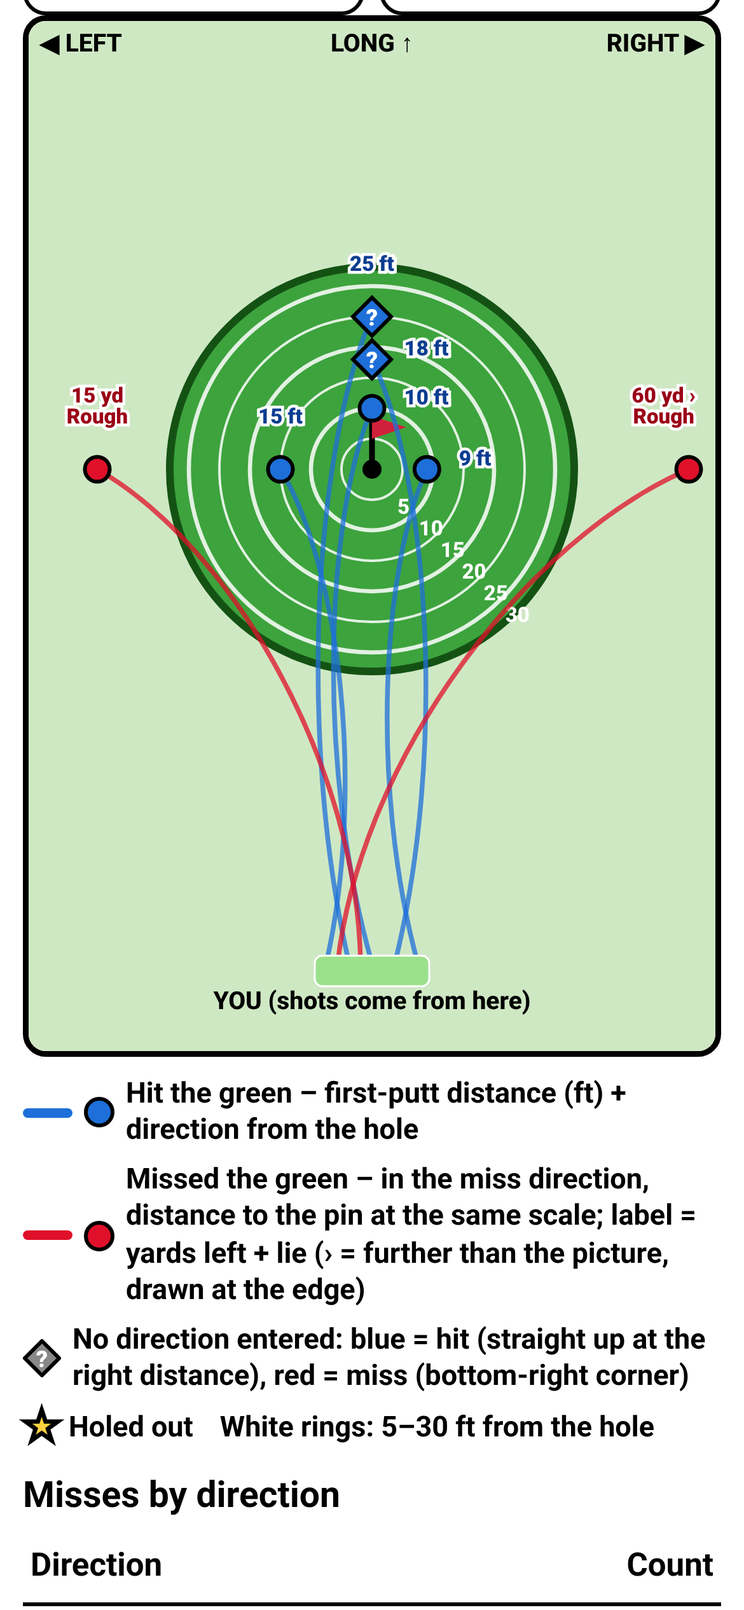
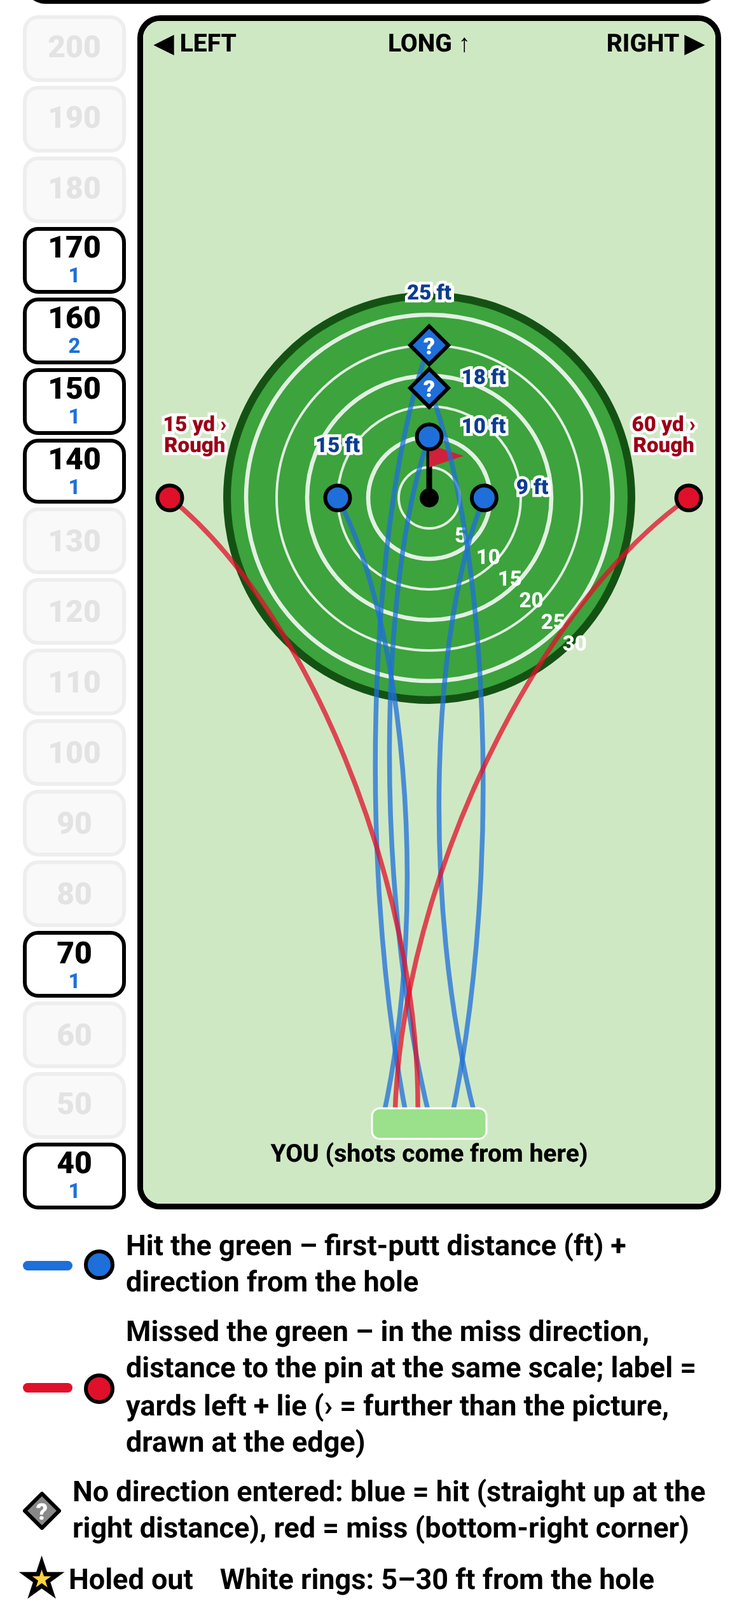
v13: Proximity yardage rail (40-200 buttons, nearest 10 yd, halves up), All button, disabled empty yardages, counts; tests; SW v13

diff --git a/tests/e2e.js b/tests/e2e.js
@@ -368,11 +368,19 @@ let passed = 0; const ok = (m) => { passed++; console.log('  ✓', m); };
   assert.match(await page.textContent('[data-act="map"][data-v="prox"]'), new RegExp('^' + Math.round(tileExp.avgAllFt) + ' ft\\s*Proximity by distance.*avg 40–200 yd · ' + tileExp.n + ' approaches · greens hit ' + tileExp.hits + '/' + tileExp.n));
   ok(`Proximity tile: ${Math.round(tileExp.avgAllFt)} ft avg, ${tileExp.n} approaches, greens hit ${tileExp.hits}/${tileExp.n}`);
   await page.locator('[data-act="map"][data-v="prox"]').click(); await page.waitForSelector('#proxmap');
-  const popts = await page.$$eval('#proxsel option', os => os.map(o => o.value));
-  assert.strictEqual(popts.length, 17); assert.strictEqual(popts[0], 'all'); assert.strictEqual(popts[1], '40-50'); assert.strictEqual(popts[16], '190-200');
-  assert.strictEqual(await page.$eval('#proxsel', e => e.value), 'all'); ok('range dropdown: All 40–200 + 16 ten-yard buckets 40–50 … 190–200');
+  const railIds = await page.$$eval('#proxrail .ybtn', bs => bs.map(b => b.getAttribute('data-v')));
+  assert.deepStrictEqual(railIds, Array.from({ length: 17 }, (_, i) => String(200 - i * 10)), '17 buttons, 200 at the top, 40 at the bottom');
+  assert.match(await page.getAttribute('[data-act="proxb"][data-v="all"]', 'class'), /sel/); assert.match(await page.textContent('#proxsel'), /All 40–200 yd/);
+  ok('yardage rail: 17 buttons 200 (top) … 40 (bottom) + All button above the map, All selected');
+  // layout at 390 wide: rail on the left, map shifted right, buttons fit the map height
+  const geo = await page.evaluate(() => { const r = document.getElementById('proxrail').getBoundingClientRect(), m = document.getElementById('proxmap').getBoundingClientRect();
+    const bs = [...document.querySelectorAll('#proxrail .ybtn')].map(b => b.getBoundingClientRect()); return { r: [r.left, r.right, r.top, r.bottom], m: [m.left, m.right, m.top, m.bottom], minH: Math.min(...bs.map(b => b.height)), minW: Math.min(...bs.map(b => b.width)), docW: document.documentElement.scrollWidth }; });
+  assert.ok(geo.r[1] <= geo.m[0], 'rail left of the map'); assert.ok(geo.m[1] <= 390 && geo.docW <= 390, 'fits 390 wide');
+  assert.ok(geo.minH >= 34, 'buttons at least 34 px tall: ' + geo.minH); assert.ok(Math.abs((geo.r[3] - geo.r[2]) - (geo.m[3] - geo.m[2])) < 2, 'rail = map height');
+  ok(`rail ${Math.round(geo.r[1] - geo.r[0])} px wide left of a ${Math.round(geo.m[1] - geo.m[0])}×${Math.round(geo.m[3] - geo.m[2])} map; buttons ${geo.minW.toFixed(0)}×${geo.minH.toFixed(1)} px; no horizontal scroll`);
   await act('mapscope', 'all');
-  const expAll = await page.evaluate(() => { const L = []; window.__golf.rounds().forEach(r => SG.summarize(r).proxList.forEach(m => { if (SG.inBucket('all', m.from)) L.push(m); })); return { P: SG.proxStats(L), byB: SG.PROX_BUCKETS.slice(1).map(b => [b.id, L.filter(m => SG.inBucket(b.id, m.from)).length]) }; });
+  const expAll = await page.evaluate(() => { const L = []; window.__golf.rounds().forEach(r => SG.summarize(r).proxList.forEach(m => L.push(m)));
+    const inA = L.filter(m => SG.inBucket('all', m.from)); return { P: SG.proxStats(inA), outside: L.length - inA.length, byB: SG.PROX_BUCKETS.slice(1).map(b => [b.id, L.filter(m => SG.inBucket(b.id, m.from)).length]) }; });
   const checkView = async (P, label) => {
     assert.match(await page.textContent('#mapsum'), new RegExp('^' + P.n + ' approach'));
     const kinds = await page.$$eval('#proxmap .xdot', ds => ds.map(d => d.getAttribute('data-kind')));
@@ -382,30 +390,47 @@ let passed = 0; const ok = (m) => { passed++; console.log('  ✓', m); };
     const st = await page.textContent('#proxstats');
     assert.ok(P.n ? st.includes(P.hits + ' / ' + P.n + ' (' + Math.round(P.hitPct) + '%)') : st.includes('–'), st);
     if (P.avgHitFt != null) assert.ok(st.includes(Math.round(P.avgHitFt) + ' ft'), st);
+    if (P.avgAllFt != null) assert.ok(st.includes(Math.round(P.avgAllFt) + ' ft'), st);
     const dsum = await page.$$eval('#dirtab tr[data-dir] td.num', ts => ts.reduce((a, t) => a + +t.textContent, 0)); assert.strictEqual(dsum, P.misses, label + ': misses by direction add up');
   };
   await checkView(expAll.P, 'all');
-  assert.strictEqual(expAll.byB.reduce((a, b) => a + b[1], 0), expAll.P.n, 'bucket counts add up to All');
-  ok(`All 40–200 (all rounds): ${expAll.P.n} approaches, ${expAll.P.hits} hit (blue) + ${expAll.P.misses} missed (red), avg ${Math.round(expAll.P.avgHitFt)} ft on greens / ${Math.round(expAll.P.avgAllFt)} ft overall; bucket counts sum to All`);
-  await page.screenshot({ path: `${SHOTS}/24-proximity-all.png` });
-  await page.locator("#proxmap").scrollIntoViewIfNeeded(); await page.locator("#mapview").evaluate(e => { const m = document.getElementById("proxmap"); e.scrollTop += m.getBoundingClientRect().top - 8; }); await page.screenshot({ path: `${SHOTS}/24b-proximity-all-map.png` }); await page.locator("#mapview").evaluate(e => e.scrollTo(0, 0));
-  await page.selectOption('#proxsel', '150-160'); await page.waitForSelector('#proxmap');
-  const exp150 = await page.evaluate(() => { const L = []; window.__golf.rounds().forEach(r => SG.summarize(r).proxList.forEach(m => { if (SG.inBucket('150-160', m.from)) L.push(m); })); return SG.proxStats(L); });
-  assert.strictEqual(exp150.n, 3); await checkView(exp150, '150-160');
+  // button counts / disabled states match the data and add up to All
+  const rbtn = await page.$$eval('#proxrail .ybtn', bs => bs.map(b => [b.getAttribute('data-v'), +b.getAttribute('data-n'), b.disabled, (b.querySelector('small') || {}).textContent || '']));
+  const byB = Object.fromEntries(expAll.byB);
+  rbtn.forEach(([id, n, dis, small]) => { assert.strictEqual(n, byB[id], id); assert.strictEqual(dis, n === 0, id + ' disabled iff empty'); assert.strictEqual(small, n ? String(n) : ''); });
+  assert.strictEqual(rbtn.reduce((a, b) => a + b[1], 0), expAll.P.n, 'button counts add up to All');
+  assert.match(await page.textContent('[data-act="proxb"][data-v="all"]'), new RegExp('All 40–200 yd · ' + expAll.P.n + ' shots'));
+  if (expAll.outside) assert.match(await page.textContent('#proxout'), new RegExp('^' + expAll.outside + ' regulation shot'));
+  ok(`All (all rounds): ${expAll.P.n} approaches = sum of button counts; ${rbtn.filter(b => b[2]).length} empty buttons greyed out + disabled; ${expAll.outside} outside 40–200 noted; ${expAll.P.hits} blue + ${expAll.P.misses} red, avg ${Math.round(expAll.P.avgHitFt)} ft on greens / ${Math.round(expAll.P.avgAllFt)} ft overall`);
+  await page.screenshot({ path: `${SHOTS}/29-proximity-rail-all.png` });
+  await page.locator('#mapview').evaluate(e => { const m = document.getElementById('proxmap'); e.scrollTop += m.getBoundingClientRect().top - 8; }); await page.screenshot({ path: `${SHOTS}/29b-proximity-rail-all-map.png` });
+  // tap 150: only shots hit from 145-154 yd; stats follow
+  const pickB = rbtn.filter(b => b[1] > 0).sort((a, b) => b[1] - a[1])[0][0];
+  const tgt = rbtn.find(b => b[0] === '150' && b[1] > 0) ? '150' : pickB;
+  await page.click(`#proxrail [data-v="${tgt}"]`); await page.waitForSelector('#proxmap');
+  assert.match(await page.getAttribute(`#proxrail [data-v="${tgt}"]`, 'class'), /sel/); assert.doesNotMatch(await page.getAttribute('[data-act="proxb"][data-v="all"]', 'class'), /sel/);
+  assert.strictEqual(await page.locator('#proxrail .ybtn.sel').count(), 1);
+  const expB = await page.evaluate(id => { const L = []; window.__golf.rounds().forEach(r => SG.summarize(r).proxList.forEach(m => { if (SG.inBucket(id, m.from)) L.push(m); })); return SG.proxStats(L); }, tgt);
+  await checkView(expB, tgt);
   const froms = await page.$$eval('#proxmap .xdot', ds => ds.map(d => +d.getAttribute('data-from')));
-  assert.ok(froms.every(f => f >= 150 && f < 160), 'only shots from 150–159 yd: ' + froms);
+  assert.ok(froms.every(f => f >= +tgt - 5 && f < +tgt + 5), 'only shots that round to ' + tgt + ': ' + froms);
+  assert.match(await page.textContent('#proxsel'), new RegExp(tgt + ' yd \\(' + (tgt - 5) + '–' + (+tgt + 4) + '\\)'));
   const ptr = await page.$$eval('#proxmap path.tracer', ps => ps.map(p => p.getAttribute('stroke')));
-  assert.strictEqual(ptr.length, 3); assert.strictEqual(ptr.filter(c => c === '#1e6fd9').length, 2); assert.strictEqual(ptr.filter(c => c === '#e0102a').length, 1);
-  const lbls = await page.$$eval('#proxmap text.xlbl', ts => ts.map(t => t.textContent));
-  assert.ok(lbls.includes('12 ft') && lbls.includes('15 ft') && lbls.some(l => l.startsWith('25 yd') && l.endsWith('Rough')), lbls.join('|'));
-  const red = await page.$eval('#proxmap .xdot[data-kind="miss"]', c => [+c.getAttribute('cx'), +c.getAttribute('cy'), c.getAttribute('data-clamped')]);
-  assert.ok(red[0] > 180 + 106, 'missed right → right of the green'); 
-  ok('150–160 yd: 3 approaches (2 blue tracers to 12 ft / 15 ft, 1 red to the right "25 yd Rough"), only shots from 150–159 yd');
-  await page.screenshot({ path: `${SHOTS}/25-proximity-150-160.png` });
-  await page.locator('#mapview').evaluate(e => e.scrollTo(0, e.scrollHeight)); await page.screenshot({ path: `${SHOTS}/25b-proximity-150-160-counts.png` });
-  await page.selectOption('#proxsel', '40-50');
-  await checkView(await page.evaluate(() => { const L = []; window.__golf.rounds().forEach(r => SG.summarize(r).proxList.forEach(m => { if (SG.inBucket('40-50', m.from)) L.push(m); })); return SG.proxStats(L); }), '40-50');
-  await page.selectOption('#proxsel', 'all'); ok('empty / other ranges render with matching counts');
+  assert.strictEqual(ptr.filter(c => c === '#1e6fd9').length, expB.hits, 'blue tracers = greens hit'); assert.strictEqual(ptr.filter(c => c === '#e0102a').length, expB.misses - (await page.locator('#proxmap .xdot[data-kind="missnodir"]').count()), 'red tracers = misses with a direction');
+  ok(`tap ${tgt}: ${expB.n} shots from ${tgt - 5}–${+tgt + 4} yd only (from ${froms.join(', ')}), button highlighted, stats ${expB.hits}/${expB.n} greens, avg ${expB.avgAllFt == null ? '–' : Math.round(expB.avgAllFt) + ' ft'}`);
+  await page.locator("#mapview").evaluate(e => e.scrollTo(0, 0)); await page.screenshot({ path: `${SHOTS}/30-proximity-rail-${tgt}.png` });
+  await page.locator('#mapview').evaluate(e => { const m = document.getElementById('proxmap'); e.scrollTop += m.getBoundingClientRect().top - 8; }); await page.screenshot({ path: `${SHOTS}/30b-proximity-rail-${tgt}-map.png` });
+  // a disabled button can't be selected
+  const dis = rbtn.find(b => b[2]);
+  if (dis) { assert.ok(await page.locator(`#proxrail [data-v="${dis[0]}"]`).isDisabled()); await page.locator(`#proxrail [data-v="${dis[0]}"]`).click({ force: true }); assert.match(await page.getAttribute(`#proxrail [data-v="${tgt}"]`, 'class'), /sel/); ok(`empty ${dis[0]} button is disabled (tap does nothing)`); }
+  // scope switch: this round has fewer yardages; a selection that becomes empty falls back to All
+  await act('mapscope', 'round');
+  const rnd = await page.$$eval('#proxrail .ybtn', bs => bs.map(b => [b.getAttribute('data-v'), +b.getAttribute('data-n'), b.disabled]));
+  const expR = await page.evaluate(() => { const S = SG.summarize(window.__golf.rounds()[0]); return SG.PROX_BUCKETS.slice(1).map(b => [b.id, S.proxList.filter(m => SG.inBucket(b.id, m.from)).length]); });
+  assert.deepStrictEqual(rnd.map(b => [b[0], b[1]]), expR.slice().reverse()); rnd.forEach(b => assert.strictEqual(b[2], b[1] === 0));
+  if (!Object.fromEntries(expR)[tgt]) assert.match(await page.getAttribute('[data-act="proxb"][data-v="all"]', 'class'), /sel/);
+  ok('This round: button counts/disabled states follow the scope; an empty selection falls back to All');
+  await act('proxb', 'all'); await act('mapscope', 'all');
   await act('mapclose');
   await noOverflow('summary with tiles');
   // About the numbers
@@ -542,7 +567,7 @@ let passed = 0; const ok = (m) => { passed++; console.log('  ✓', m); };
     await act('pinseg', '');
   }
   assert.strictEqual(ph, 5); assert.strictEqual(pm, 2); await act('mapclose');
-  await page.locator('[data-act="map"][data-v="prox"]').click(); await page.waitForSelector('#proxmap'); await act('mapscope', 'round'); await page.selectOption('#proxsel', 'all');
+  await page.locator('[data-act="map"][data-v="prox"]').click(); await page.waitForSelector('#proxmap'); await act('mapscope', 'round'); await act('proxb', 'all');
   const pk7 = await page.$$eval('#proxmap .xdot', ds => ds.map(d => d.getAttribute('data-kind')));
   assert.strictEqual(pk7.filter(k => k.startsWith('miss')).length, 2); assert.strictEqual(pk7.length - 2, 5);
   const curved = await page.$$eval('#proxmap path.tracer', ps => ps.every(p => / C/.test(p.getAttribute('d'))));

diff --git a/app.js b/app.js
@@ -532,17 +532,19 @@
     return tile('prox', 'Proximity by distance – tap for map', P.n ? fmtFt(P.avgAllFt) : '–',
       '<small class="mini">avg 40–200 yd · ' + P.n + ' approach' + (P.n === 1 ? '' : 'es') + (P.n ? ' · greens hit ' + P.hits + '/' + P.n : '') + '</small>');
   }
+  // Proximity data for the selected yardage. Counts per yardage button (current scope) decide which
+  // buttons are enabled; a selection with no shots in this scope falls back to All.
   function proxData() {
-    var b = view.proxB || 'all', list = [], n = 0;
-    (view.mapScope === 'all' ? rounds : [round()]).forEach(function (r) {
-      n++; SG.summarize(r, 'pga').proxList.forEach(function (m) { if (SG.inBucket(b, m.from)) list.push(m); });
-    });
-    return { list: list, rounds: n, bucket: b };
+    var all = [], n = 0;
+    (view.mapScope === 'all' ? rounds : [round()]).forEach(function (r) { n++; SG.summarize(r, 'pga').proxList.forEach(function (m) { all.push(m); }); });
+    var counts = {}; SG.PROX_BUCKETS.forEach(function (b) { counts[b.id] = all.filter(function (m) { return SG.inBucket(b.id, m.from); }).length; });
+    var b = view.proxB || 'all'; if (!counts[b]) b = 'all';
+    return { list: all.filter(function (m) { return SG.inBucket(b, m.from); }), rounds: n, bucket: b, counts: counts, outside: all.length - counts.all };
   }
-  var PX = { cx: 180, cy: 235, K: 3.2, Rg: 106, W: 360, H: 540 };
+  var PX = { cx: 150, cy: 250, K: 3.2, Rg: 106, W: 300, H: 620 };
   function proxSVG(list) {
-    var out = '<svg id="proxmap" viewBox="0 0 360 540" role="img" aria-label="Approach proximity">' +
-      '<rect width="360" height="540" fill="#cfe8c4"/><circle cx="' + PX.cx + '" cy="' + PX.cy + '" r="' + PX.Rg + '" fill="#3da33d" stroke="#145214" stroke-width="4"/>';
+    var out = '<svg id="proxmap" viewBox="0 0 ' + PX.W + ' ' + PX.H + '" role="img" aria-label="Approach proximity">' +
+      '<rect width="' + PX.W + '" height="' + PX.H + '" fill="#cfe8c4"/><circle cx="' + PX.cx + '" cy="' + PX.cy + '" r="' + PX.Rg + '" fill="#3da33d" stroke="#145214" stroke-width="4"/>';
     [30, 25, 20, 15, 10, 5].forEach(function (ft) {
       out += '<circle cx="' + PX.cx + '" cy="' + PX.cy + '" r="' + ft * PX.K + '" fill="none" stroke="#fff" stroke-width="' + (ft % 10 ? 1.3 : 2.2) + '" stroke-opacity=".85"/>' +
         '<text class="ring" x="' + f1(PX.cx + 2 + ft * PX.K * 0.707) + '" y="' + f1(PX.cy + 12 + ft * PX.K * 0.707) + '" font-size="11" font-weight="800" fill="#fff">' + ft + '</text>';
@@ -581,7 +583,7 @@
         var raw = pt(PX.cx, PX.cy, r0, SG.DIR_ANGLE[m.dir] + (jm - 1) * 8); q = clampXY(raw); clamped = q[0] !== raw[0] || q[1] !== raw[1];
         kind = 'miss'; label = m.lie === 'ob' ? 'OB' : Math.round(m.yd) + ' yd' + (clamped ? ' ›' : ''); label2 = m.lie === 'ob' ? '' : (LN[m.lie] || m.lie);
       }
-      var x = f1(q[0]), y = f1(q[1]), ox = 180 + ((i * 29) % 9 - 4) * 6, oy = PX.H - 46;
+      var x = f1(q[0]), y = f1(q[1]), ox = PX.cx + ((i * 29) % 9 - 4) * 6, oy = PX.H - 46;
       if (kind !== 'missnodir') tr += '<path class="tracer" data-ex="' + x + '" data-ey="' + y + '" d="' + flight(ox, oy, q[0], q[1], i) + '" fill="none" stroke="' + col + '" stroke-width="2.5" stroke-opacity=".75"/>';
       var attrs = ' class="xdot" data-kind="' + kind + '" data-hole="' + m.hole + '" data-from="' + m.from + '"' + (clamped ? ' data-clamped="1"' : '');
       if (kind === 'holed') dots += '<path' + attrs + ' d="M' + x + ' ' + (y - 10) + ' l3 6.5 7 .8 -5.3 4.8 1.5 7 -6.2 -3.6 -6.2 3.6 1.5 -7 -5.3 -4.8 7 -.8z" fill="#ffd23f" stroke="#1e6fd9" stroke-width="2"/>';
@@ -591,22 +593,29 @@
       boxes.push([q[0] - 8, q[1] - 10, q[0] + 8, q[1] + 10]);
     });
     pend.forEach(function (p) { labels += lbl(p[0], p[1], p[2], p[3], p[4]); });
-    out += tr + dots + labels + '<text x="180" y="16" text-anchor="middle" font-size="13" font-weight="800">LONG ↑</text>' +
-      '<rect x="150" y="' + (PX.H - 50) + '" width="60" height="16" rx="4" fill="#9be08a" stroke="#fff"/><text x="180" y="' + (PX.H - 22) + '" text-anchor="middle" font-size="13" font-weight="800">YOU (shots come from here)</text>' +
-      '<text x="6" y="16" font-size="13" font-weight="800">◀ LEFT</text><text x="354" y="16" text-anchor="end" font-size="13" font-weight="800">RIGHT ▶</text>' +
+    out += tr + dots + labels + '<text x="' + PX.cx + '" y="16" text-anchor="middle" font-size="13" font-weight="800">LONG ↑</text>' +
+      '<rect x="' + (PX.cx - 30) + '" y="' + (PX.H - 50) + '" width="60" height="16" rx="4" fill="#9be08a" stroke="#fff"/><text x="' + PX.cx + '" y="' + (PX.H - 22) + '" text-anchor="middle" font-size="13" font-weight="800">YOU (shots come from here)</text>' +
+      '<text x="6" y="16" font-size="13" font-weight="800">◀ LEFT</text><text x="' + (PX.W - 6) + '" y="16" text-anchor="end" font-size="13" font-weight="800">RIGHT ▶</text>' +
       (nd ? '<text x="' + (PX.W - 8) + '" y="' + (PX.H - 112 - Math.floor((nd - 1) / 6) * 34) + '" text-anchor="end" font-size="11" font-weight="800">missed, no direction</text>' : '');
     return out + '</svg>';
   }
   function proxHTML(all) {
     var D = proxData(), L = D.list, P = SG.proxStats(L), miss = L.filter(function (m) { return !m.hit; });
-    var opts = SG.PROX_BUCKETS.map(function (b) { return '<option value="' + b.id + '"' + (b.id === D.bucket ? ' selected' : '') + '>' + b.name + '</option>'; }).join('');
+    // yardage rail: 200 at the top (farther = up the page, like the map), 40 at the bottom
+    var rail = SG.PROX_BUCKETS.slice(1).reverse().map(function (b) {
+      var c = D.counts[b.id];
+      return '<button class="ybtn' + (b.id === D.bucket ? ' sel' : '') + '" data-act="proxb" data-v="' + b.id + '" data-n="' + c + '"' + (c ? '' : ' disabled') +
+        ' aria-pressed="' + (b.id === D.bucket) + '" aria-label="' + b.yd + ' yards, ' + c + ' shot' + (c === 1 ? '' : 's') + '"><b>' + b.yd + '</b>' + (c ? '<small>' + c + '</small>' : '') + '</button>';
+    }).join('');
+    var bname = D.bucket === 'all' ? 'All 40–200 yd' : D.bucket + ' yd (' + (Number(D.bucket) - 5) + '–' + (Number(D.bucket) + 4) + ')';
     var scope = all ? ' in ' + D.rounds + ' round' + (D.rounds === 1 ? '' : 's') : ' this round';
-    return '<label class="lbl" for="proxsel">Approach from</label><select id="proxsel" class="blsel" data-f="proxb">' + opts + '</select>' +
-      '<p class="mapsum" id="mapsum"><b>' + P.n + '</b> approach' + (P.n === 1 ? '' : 'es') + scope + '</p>' +
+    return '<p class="mapsum" id="mapsum"><b>' + P.n + '</b> approach' + (P.n === 1 ? '' : 'es') + ' from <b id="proxsel">' + bname + '</b>' + scope + '</p>' +
       '<div class="stat-grid" id="proxstats">' +
       stat('Shots', P.n) + stat('Greens hit', P.n ? P.hits + ' / ' + P.n + ' (' + Math.round(P.hitPct) + '%)' : '–') +
       stat('Avg proximity – greens hit', fmtFt(P.avgHitFt)) + stat('Avg proximity – all', fmtFt(P.avgAllFt)) + '</div>' +
-      proxSVG(L) +
+      '<button class="yall' + (D.bucket === 'all' ? ' sel' : '') + '" data-act="proxb" data-v="all" data-n="' + D.counts.all + '" aria-pressed="' + (D.bucket === 'all') + '">All 40–200 yd · ' + D.counts.all + ' shot' + (D.counts.all === 1 ? '' : 's') + '</button>' +
+      '<div class="proxwrap"><div class="proxrail" id="proxrail" role="group" aria-label="Approach yardage">' + rail + '</div>' + proxSVG(L) + '</div>' +
+      (D.outside ? '<p class="help muted" id="proxout">' + D.outside + ' regulation shot' + (D.outside === 1 ? '' : 's') + ' from outside 40–200 yd (e.g. a par-4 tee shot that missed, or under 35 yd) not shown.</p>' : '') +
       '<div class="legend"><span><i class="ln" style="background:#1e6fd9"></i><i class="dot" style="background:#1e6fd9"></i>Hit the green – first-putt distance (ft) + direction from the hole</span>' +
       '<span><i class="ln" style="background:#e0102a"></i><i class="dot" style="background:#e0102a"></i>Missed the green – in the miss direction, distance to the pin at the same scale; label = yards left + lie (› = further than the picture, drawn at the edge)</span>' +
       '<span><svg width="20" height="20" viewBox="0 0 20 20" style="flex:none"><path d="M10 1 l9 9 -9 9 -9 -9z" fill="#888" stroke="#000" stroke-width="2"/><text x="10" y="14.5" text-anchor="middle" font-size="12" font-weight="900" fill="#fff">?</text></svg>No direction entered: blue = hit (straight up at the right distance), red = miss (bottom-right corner)</span>' +
@@ -614,7 +623,7 @@
       '<h3>Misses by direction</h3>' + dirTable(miss).replace('(not plotted)', '(drawn as ?)') +
       '<p class="help muted">One shot per hole, the same as the GIR and Approach-miss maps: the shot that reached the green in regulation (blue), or the regulation miss (red: par 3 = tee shot, par 4 = 2nd shot, par 5 = 3rd shot). ' +
       'It goes in the range it was hit from. A chip-in from 30 yd or closer right after counts as reaching the green (its proximity = the chip distance). ' +
-      'Proximity: greens hit = first-putt feet; misses = yards left × 3; OB has no proximity and is left out of the averages. Ranges: 10-yd buckets by the yardage the approach was hit from (40–50 means 40 up to 49; 190–200 includes 200). ' +
+      'Proximity: greens hit = first-putt feet; misses = yards left × 3; OB has no proximity and is left out of the averages. Yardage buttons (200 at the top, 40 at the bottom): the distance the shot was hit from, rounded to the nearest 10 yd, halves up (144 → 140, 145 → 150), so 150 = 145 to 154 yd. Greyed-out buttons have no shots; the small number is the shot count. ' +
       'Only finished holes count.</p>';
   }
   // ---------- pin-location map ----------
@@ -784,6 +793,7 @@
       case 'pinclose': view.pinOpen = false; render(); return;
       case 'pinset': h.pin = SG.normPin(v); save(); render(); return;
       case 'pinclear': h.pin = ''; save(); render(); return;
+      case 'proxb': { var mv0 = document.getElementById('mapview'), st0 = mv0 ? mv0.scrollTop : 0; view.proxB = v; render(); var mv1 = document.getElementById('mapview'); if (mv1) mv1.scrollTop = st0; return; }
       case 'mapscope': view.mapScope = v; render(); var mv = document.getElementById('mapview'); if (mv) mv.scrollTop = 0; return;
       case 'dirpick': view.dirk = k; view.menu = null; break;
       case 'dirclose': view.dirk = null; break;
@@ -833,7 +843,6 @@
   }
   document.addEventListener('change', function (ev) {
     var t = ev.target, f = t.getAttribute('data-f'); if (!f) return;
-    if (f === 'proxb') { view.proxB = t.value; render(); return; }
     if (f === 'baseline') { if (t.id === 'sumbl') setBaseline(t.value); return; }
     var h = round().holes[view.hole], k = +t.getAttribute('data-k'), row = h.rows[k];
     if (f === 'loc') {

diff --git a/tests/sg.test.js b/tests/sg.test.js
@@ -454,13 +454,20 @@ test('pin map consistency on random rounds: badges sum = holes, hit + missed = h
 });
 
 // ---- Proximity by distance ----
-test('proximity buckets: 16 ten-yard ranges 40-200 + All; edges', () => {
-  assert.strictEqual(SG.PROX_BUCKETS.length, 17); assert.strictEqual(SG.PROX_BUCKETS[0].id, 'all');
-  assert.deepStrictEqual(SG.PROX_BUCKETS.slice(1).map(b => b.id), Array.from({ length: 16 }, (_, i) => (40 + i * 10) + '-' + (50 + i * 10)));
-  assert.ok(SG.inBucket('40-50', 40)); assert.ok(!SG.inBucket('40-50', 50)); assert.ok(SG.inBucket('50-60', 50));
-  assert.ok(SG.inBucket('190-200', 200)); assert.ok(!SG.inBucket('190-200', 201)); assert.ok(!SG.inBucket('all', 39)); assert.ok(SG.inBucket('all', 200));
-  // every yardage 40..200 is in exactly one 10-yd bucket
-  for (let y = 40; y <= 200; y += 0.5) assert.strictEqual(SG.PROX_BUCKETS.slice(1).filter(b => SG.inBucket(b.id, y)).length, 1, 'y=' + y);
+test('proximity yardages: 40..200 by nearest 10 yd (halves up), All = 40-200 after rounding', () => {
+  assert.strictEqual(SG.PROX_BUCKETS.length, 18); assert.strictEqual(SG.PROX_BUCKETS[0].id, 'all');
+  assert.deepStrictEqual(SG.PROX_BUCKETS.slice(1).map(b => b.id), Array.from({ length: 17 }, (_, i) => String(40 + i * 10)));
+  const R10 = SG.roundYd;
+  assert.deepStrictEqual([144, 145, 149.9, 154, 154.9, 155, 35, 34.9, 204.9, 205].map(R10), [140, 150, 150, 150, 150, 160, 40, 30, 200, 210]);
+  assert.ok(SG.inBucket('140', 144)); assert.ok(!SG.inBucket('140', 145)); assert.ok(SG.inBucket('150', 145));
+  assert.ok(SG.inBucket('40', 35) && SG.inBucket('all', 35)); assert.ok(!SG.inBucket('all', 34.9), '34.9 -> 30, outside');
+  assert.ok(SG.inBucket('200', 204) && SG.inBucket('all', 204)); assert.ok(!SG.inBucket('all', 205), '205 -> 210, outside');
+  assert.ok(!SG.inBucket('all', null) && !SG.inBucket('all', ''));
+  // every yardage 35..204.9 is in exactly one button; the buttons add up to All
+  for (let y = 30; y <= 210; y += 0.1) {
+    const n = SG.PROX_BUCKETS.slice(1).filter(b => SG.inBucket(b.id, y)).length;
+    assert.strictEqual(n, SG.inBucket('all', y) ? 1 : 0, 'y=' + y);
+  }
 });
 
 test('proximity: the regulation shot per hole (GIR shot or regulation miss); ft for hits, yd x3 for misses; OB excluded from averages', () => {
@@ -480,8 +487,32 @@ test('proximity: the regulation shot per hole (GIR shot or regulation miss); ft 
   const P = SG.proxStats(S.proxList.filter(m => SG.inBucket('all', m.from)));
   assert.strictEqual(P.n, 7); assert.strictEqual(P.hits, 3); near(P.avgHitFt, (12 + 20 + 0) / 3, 'avg hit'); near(P.avgAllFt, (12 + 45 + 20 + 180 + 0) / 5, 'avg all'); assert.strictEqual(P.noProx, 2);
   const B = id => S.proxList.filter(m => SG.inBucket(id, m.from)).map(m => m.hole);
-  assert.deepStrictEqual(B('140-150'), [2]); assert.deepStrictEqual(B('150-160'), [1]); assert.deepStrictEqual(B('160-170'), [6, 7]); assert.deepStrictEqual(B('180-190'), [4]); assert.deepStrictEqual(B('90-100'), [3]); assert.deepStrictEqual(B('110-120'), [5]);
+  // 145 rounds up to 150; 95 -> 100
+  assert.deepStrictEqual(B('140'), []); assert.deepStrictEqual(B('150'), [1, 2]); assert.deepStrictEqual(B('160'), [6, 7]); assert.deepStrictEqual(B('180'), [4]); assert.deepStrictEqual(B('100'), [3]); assert.deepStrictEqual(B('110'), [5]);
   assert.strictEqual(SG.PROX_BUCKETS.slice(1).reduce((n, b) => n + B(b.id).length, 0), B('all').length);
+});
+
+test('proximity yardage counts add up to All on random rounds; outside = rest', () => {
+  const pick = a => a[Math.floor(Math.random() * a.length)];
+  for (let n = 0; n < 200; n++) {
+    const hs = [];
+    for (let i = 0; i < 18; i++) {
+      const par = pick([3, 4, 4, 5]), y = par === 3 ? 100 + Math.round(Math.random() * 130) : par === 4 ? 300 + Math.round(Math.random() * 160) : 480 + Math.round(Math.random() * 100);
+      const rows = [R(y, 'tee')]; let d = y;
+      while (rows.length < 7) {
+        const loc = pick(['fairway', 'rough', 'bunker', 'green', 'green', 'holed', 'holedx']);
+        d = loc === 'green' || loc === 'holed' ? 1 + Math.round(Math.random() * 40) : Math.max(1, Math.round(d * Math.random() * 10) / 10);
+        rows.push(R(d, loc, pick(['', 'left', 'long', 'short']))); if (loc === 'holed' || loc === 'holedx') break;
+      }
+      if (!['holed', 'holedx'].includes(rows[rows.length - 1].loc)) rows.push(R(1, 'holed'));
+      hs.push({ par, finished: true, rows });
+    }
+    const S = SG.summarize({ holes: hs }), all = S.proxList.filter(m => SG.inBucket('all', m.from));
+    const sum = SG.PROX_BUCKETS.slice(1).reduce((t, b) => t + S.proxList.filter(m => SG.inBucket(b.id, m.from)).length, 0);
+    assert.strictEqual(sum, all.length);
+    assert.strictEqual(S.proxList.length - all.length, S.proxList.filter(m => SG.roundYd(m.from) < 40 || SG.roundYd(m.from) > 200).length);
+    SG.PROX_BUCKETS.slice(1).forEach(b => { const L = S.proxList.filter(m => SG.inBucket(b.id, m.from)); const P = SG.proxStats(L); assert.strictEqual(P.hits + P.misses, P.n); });
+  }
 });
 
 test("Scott's definitive rule: par-3 tee miss = miss; par-4 tee off green not a miss; par-5 2nd short not a miss; his 7-hole case 5/7 GIR = 2 misses", () => {

diff --git a/sg.js b/sg.js
@@ -364,13 +364,17 @@
 
   // Where a missed tee shot ended (row loc -> map category)
   var TEE_END = { rough: 'rough', deep: 'rough', bunker: 'bunker', hazard: 'hazard', trees: 'trees', ob: 'ob', sand: 'bunker', recovery: 'trees' };
-  // Proximity buckets: 10-yd ranges 40-200 (lower bound inclusive, upper exclusive; 190-200 includes 200)
-  var PROX_BUCKETS = [];
-  for (var pb = 40; pb < 200; pb += 10) PROX_BUCKETS.push({ id: pb + '-' + (pb + 10), lo: pb, hi: pb + 10, name: pb + '–' + (pb + 10) + ' yd' });
-  PROX_BUCKETS.unshift({ id: 'all', lo: 40, hi: 200, name: 'All 40–200 yd' });
+  // Proximity yardages: the regulation shot's starting distance rounded to the nearest 10 yd,
+  // halves round UP (144 -> 140, 145 -> 150, 194.9 -> 190, 195 -> 200). Targets 40, 50 ... 200 (17);
+  // shots that round outside 40-200 are left out (counted as "outside" in the view).
+  function roundYd(yd) { return Math.floor(Number(yd) / 10 + 0.5) * 10; }
+  var PROX_BUCKETS = [{ id: 'all', yd: null, name: 'All 40–200 yd' }];
+  for (var pb = 40; pb <= 200; pb += 10) PROX_BUCKETS.push({ id: String(pb), yd: pb, name: pb + ' yd (' + (pb - 5) + '–' + (pb + 4) + ')' });
   function inBucket(id, yd) {
-    var b = PROX_BUCKETS.filter(function (x) { return x.id === id; })[0] || PROX_BUCKETS[0];
-    return yd >= b.lo && (yd < b.hi || (b.hi === 200 && yd <= 200));
+    if (yd == null || yd === '' || isNaN(Number(yd))) return false;
+    var r = roundYd(yd);
+    if (id === 'all' || id == null) return r >= 40 && r <= 200;
+    return r === Number(id);
   }
   function proxStats(list) {
     var hits = list.filter(function (m) { return m.hit; }), withFt = list.filter(function (m) { return m.ft != null; });
@@ -553,7 +557,7 @@
   }
 
   calibrate();
-  var api = { PROX_BUCKETS: PROX_BUCKETS, inBucket: inBucket, proxStats: proxStats, reachedGreen: reachedGreen, PIN_GRID: PIN_GRID, PIN_NAME: PIN_NAME, normPin: normPin, DIR8: DIR8, DIR_NAME: DIR_NAME, DIR_ANGLE: DIR_ANGLE, normDir: normDir, expected: expected, expectedPGA: expectedPGA, BASELINES: BASELINES, baseline: function (id) { return BL[id] || BL.pga; },
+  var api = { PROX_BUCKETS: PROX_BUCKETS, inBucket: inBucket, roundYd: roundYd, proxStats: proxStats, reachedGreen: reachedGreen, PIN_GRID: PIN_GRID, PIN_NAME: PIN_NAME, normPin: normPin, DIR8: DIR8, DIR_NAME: DIR_NAME, DIR_ANGLE: DIR_ANGLE, normDir: normDir, expected: expected, expectedPGA: expectedPGA, BASELINES: BASELINES, baseline: function (id) { return BL[id] || BL.pga; },
     CALIB_ROUND: CALIB_ROUND, catLoss: catLoss, analyzeHole: analyzeHole, summarize: summarize,
     rowsToShots: rowsToShots, shotsToRows: shotsToRows, migrateV2Rows: migrateV2Rows, v1ToRows: v1ToRows, holeYards: holeYards,
     rowUnit: rowUnit, lieOf: lieOf, distOf: distOf, rowStrokes: rowStrokes, isPenalty: isPenalty,

diff --git a/styles.css b/styles.css
@@ -209,3 +209,16 @@ body.noscroll { overflow: hidden; }
 .pinstats button.has .badge { background: #000; color: #fff; border-color: #fff; }
 .pinstats button:not(.has) { opacity: .85; }
 .pingreen.pinstats { height: 460px; }
+/* v13 proximity yardage rail: 17 buttons (200 top .. 40 bottom) left of the map, map shifted right */
+.mapview .yall { display: block; width: 100%; min-height: 48px; margin: 8px 0 6px; border: 3px solid #000; border-radius: 12px; background: #fff; font-size: 18px; font-weight: 900; color: #000; }
+.mapview .yall.sel { background: #000; color: #fff; }
+.proxwrap { display: flex; gap: 6px; align-items: stretch; }
+.proxwrap svg { flex: 1 1 auto; min-width: 0; width: auto; }
+.proxrail { flex: 0 0 54px; display: flex; flex-direction: column; gap: 2px; }
+.proxrail .ybtn { flex: 1 1 0; min-height: 34px; padding: 0; border: 2px solid #000; border-radius: 8px; background: #fff; color: #000;
+  display: flex; flex-direction: column; align-items: center; justify-content: center; line-height: 1; gap: 1px; }
+.proxrail .ybtn b { font-size: 16px; font-weight: 900; }
+.proxrail .ybtn small { font-size: 11px; font-weight: 800; color: #1e6fd9; }
+.proxrail .ybtn.sel { background: #000; color: #fff; border-color: #000; box-shadow: 0 0 0 3px #ffd23f; }
+.proxrail .ybtn.sel small { color: #ffd23f; }
+.proxrail .ybtn:disabled { background: #eee; color: #b0b0b0; border-color: #d0d0d0; }

diff --git a/sw.js b/sw.js
@@ -1,5 +1,5 @@
 // Offline support: cache the whole app on install, serve cache-first.
-const CACHE = 'golf-sg-v12';
+const CACHE = 'golf-sg-v13';
 const ASSETS = ['./', './index.html', './styles.css', './sg.js', './app.js',
   './manifest.webmanifest', './icons/apple-touch-icon.png', './icons/icon-192.png',
   './icons/icon-512.png', './icons/icon-512-maskable.png'];

diff --git a/README.md b/README.md
@@ -59,7 +59,7 @@ Note: rounds are saved per web address, so keep using the same URL.
 
 ## Proximity by distance (v11)
 Stats page → **Proximity by distance** tile (value = average proximity of all approaches from 40–200 yd) opens a full-window view.
-- **Range dropdown:** *All 40–200 yd* plus 16 ten-yard buckets 40–50, 50–60 … 190–200, by the yardage the approach was hit from. Lower bound inclusive, upper exclusive (140–150 = 140 up to 149); 190–200 also includes 200.
+- **Yardage rail (v13, replaced the dropdown):** a column of 17 tap buttons left of the map, 200 at the top (farther = up) down to 40, plus an "All 40–200 yd" button above the map. A shot goes to its regulation shot's starting distance rounded to the nearest 10 yd, halves up (144 → 140, 145 → 150; so 150 = 145–154.9 yd). Shots that round outside 40–200 are left out and counted in a note. Buttons show their shot count; empty ones are greyed out and disabled; the selected one is black with a yellow ring. Stats, map and misses-by-direction follow the selection; if a scope switch empties the selection it falls back to All.
 - **Which shot (one per finished hole):** the regulation shot (see "GIR and misses (v12)"): the shot that reached the green in regulation (blue) or the regulation miss (red), bucketed by the distance it was hit from.
 - **Map:** green with white rings every 5 ft to 30 ft and room around it. Tracers come up from the bottom (the golfer). Blue = hit, placed at first-putt feet in the recorded direction, labeled in ft (★ = holed). Red = miss, placed in the miss direction at yards-left × 3 ft on the same scale, labeled yards + lie. Misses farther than the picture are clamped to the edge and marked "›". No direction entered: blue "?" straight up at the right distance, red "?" in the bottom-right corner.
 - **Stats:** shots, greens hit %, average proximity on greens hit (ft), average proximity overall (misses = yards × 3; OB has no proximity and is left out of the averages), plus misses by direction. This round / All rounds toggle.
